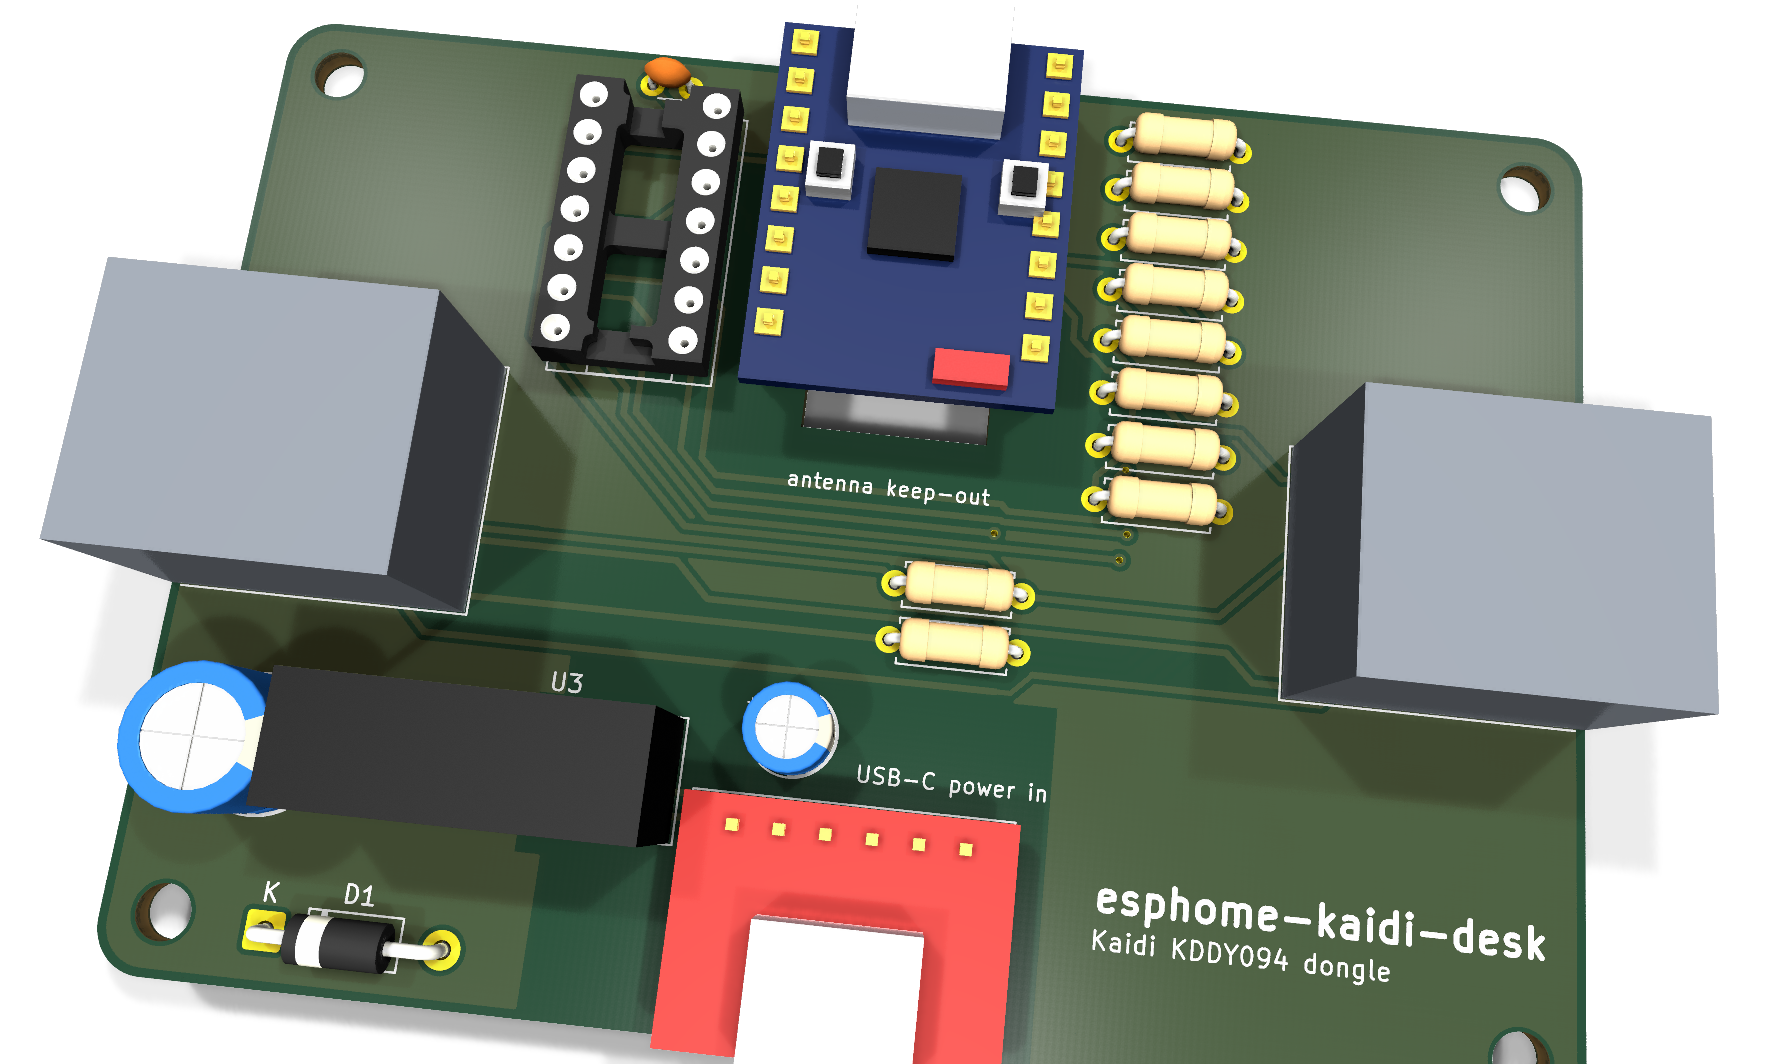
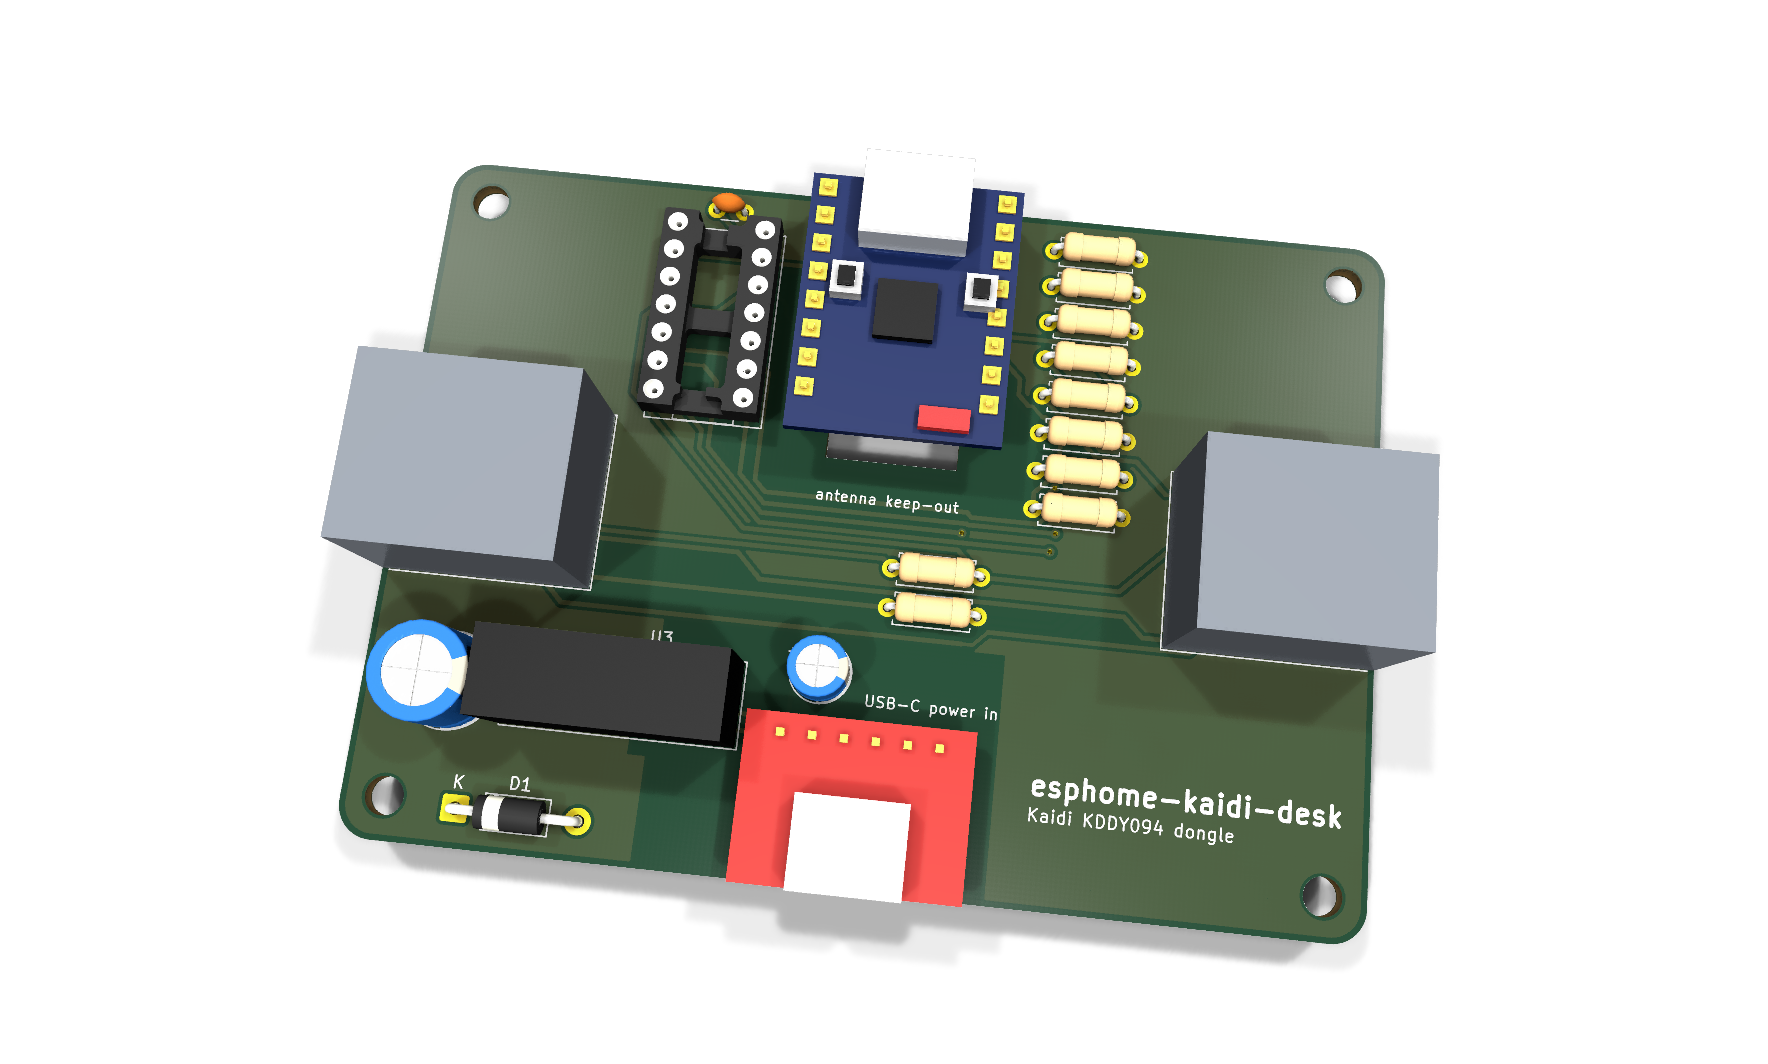
docs: zoom out the renders and widen the schematic for the larger board

diff --git a/scripts/render_enclosure.py b/scripts/render_enclosure.py
@@ -14,10 +14,10 @@ import pcbnew
 HW, DOCS = Path(sys.argv[1]).resolve(), Path(sys.argv[2]).resolve()
 CLI = os.environ.get("KICAD_CLI", "/Applications/KiCad/KiCad.app/Contents/MacOS/kicad-cli")
 VIEWS = {
-    "enclosure-open": {"lid_z": 28.0, "rotate": "-55,0,-20", "zoom": "0.78"},
-    "enclosure-closed": {"lid_z": 0.0, "rotate": "-58,0,40", "zoom": "0.9"},
-    "enclosure-usb": {"lid_z": 0.0, "rotate": "-60,0,20", "zoom": "0.9"},
-    "board-3d": {"lid_z": None, "rotate": "-58,0,40", "zoom": "0.9"},
+    "enclosure-open": {"lid_z": 28.0, "rotate": "-55,0,-20", "zoom": "0.6"},
+    "enclosure-closed": {"lid_z": 0.0, "rotate": "-58,0,40", "zoom": "0.74"},
+    "enclosure-usb": {"lid_z": 0.0, "rotate": "-60,0,20", "zoom": "0.78"},
+    "board-3d": {"lid_z": None, "rotate": "-58,0,40", "zoom": "0.74"},
 }
 
 for name, view in VIEWS.items():

diff --git a/scripts/render_art.py b/scripts/render_art.py
@@ -73,6 +73,6 @@ def render(out, side, rotate, zoom, *lights):
 
 
 FLAT_LIGHTS = ("--light-camera", "0.9", "--light-bottom", "0.6", "--light-side", "0.5")
-render(ROOT / "docs/board-3d-top.png", "top", "-12,0,-6", "1.3", *FLAT_LIGHTS)
-render(ROOT / "docs/board-3d-bottom.png", "bottom", "-12,0,-6", "1.3", *FLAT_LIGHTS)
+render(ROOT / "docs/board-3d-top.png", "top", "-12,0,-6", "0.92", *FLAT_LIGHTS)
+render(ROOT / "docs/board-3d-bottom.png", "bottom", "-12,0,-6", "0.92", *FLAT_LIGHTS)
 print("rendered the board art and its 3D renders into docs/")

diff --git a/scripts/render_schematic.py b/scripts/render_schematic.py
@@ -13,7 +13,7 @@ import tempfile
 KICAD_CLI = os.environ.get("KICAD_CLI", "/Applications/KiCad/KiCad.app/Contents/MacOS/kicad-cli")
 THEMES = pathlib.Path(os.environ.get("KICAD_CONFIG", pathlib.Path.home() / "Library/Preferences/kicad/10.0")) / "colors"
 ROOT = pathlib.Path(__file__).resolve().parent.parent
-X, Y, W, H = 12.0, 18.0, 284.0, 190.0
+X, Y, W, H = 10.0, 18.0, 302.0, 190.0
 
 THEMES.mkdir(parents=True, exist_ok=True)
 shutil.copy(ROOT / "hardware/themes/kaidi-dark.json", THEMES / "kaidi-dark.json")
